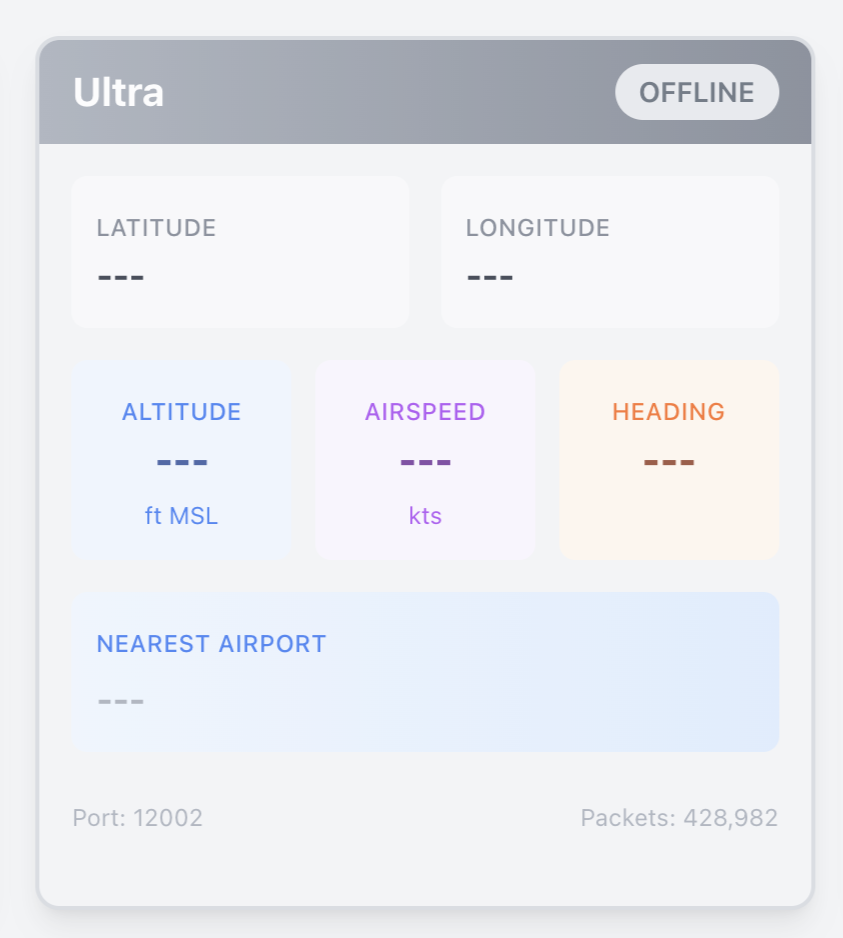
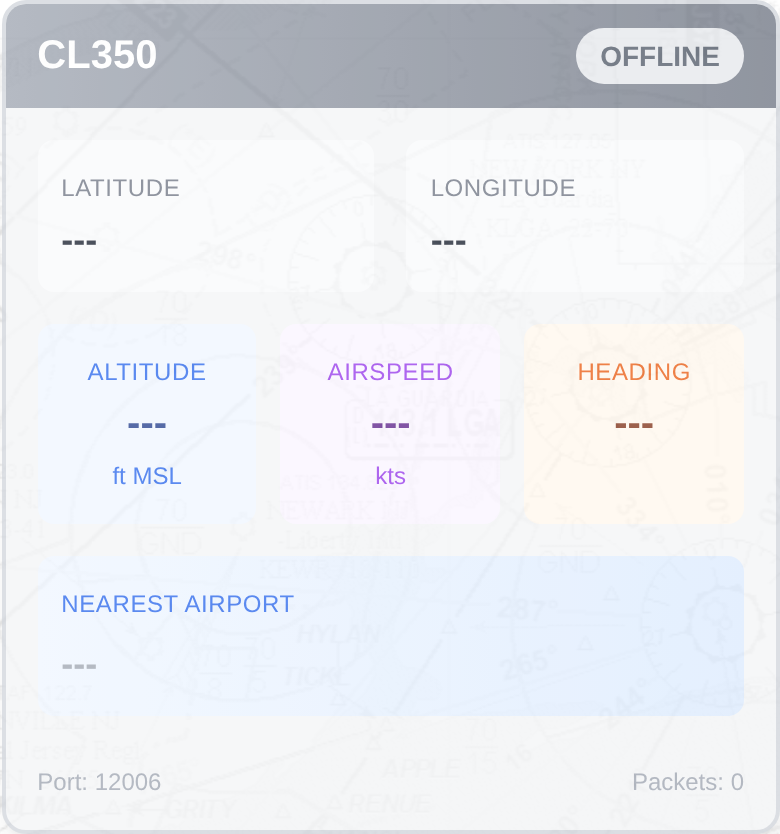
Update Fleet Dashboard screenshots for switch tracking
Retake the dashboard and health-chain screenshots on the merged code
(new header, Switch node, REC badges) with the real SIM_N_SWITCH_IP
settings, and add close-ups for the Emulator down, Switch not
responding and Simulator unreachable states plus a full-fleet health
view.

Claude-Session: https://claude.ai/code/session_01HfNUiSktvhQxPBSUhRtmcd

diff --git a/docs/dashboard-manual/health-chain.md b/docs/dashboard-manual/health-chain.md
@@ -11,6 +11,10 @@ This view is the difference between "I have no idea why this card is gray" and "
 
 *A card whose GPS Data segment has failed.*
 
+![The whole fleet in health view, showing every state the chain can be in.](../images/screenshots/health-chain-00-grid.png)
+
+*The whole fleet in health view: two cards all green, and one card for each failure point.*
+
 ## The chain
 
 ```
@@ -44,6 +48,8 @@ This is the only "happy path" state. Every other state has at least one red elem
 
 ### 2. Emulator down
 
+![A card whose Emulator node has failed.](../images/screenshots/health-chain-03-emulator-down.png)
+
 `emulator_online == false`. No heartbeat in 3 s.
 
 | Element | State |
@@ -68,6 +74,8 @@ Likely fixes:
 - Network outage between the rebroadcaster host and the dashboard host.
 
 ### 3. Switch not responding
+
+![A card whose Switch node has failed, naming the switch IP.](../images/screenshots/health-chain-04-switch-failure.png)
 
 `emulator_online == true`, the switch check is configured, `switch_reachable == false`, and `sim_reachable == false`. This branch is evaluated only when position data is not already flowing.
 
@@ -94,6 +102,8 @@ Likely fixes:
 - Check whether ICMP is filtered to the management IP. A management-plane/ICMP failure to the switch is not enough by itself to produce this state - it also requires the rebroadcaster's simulator ping to be failing (`sim_reachable == false`). If the simulator ping still succeeds through the switch, check the Simulator/GPS branches instead of assuming the switch itself is broken.
 
 ### 4. Simulator unreachable
+
+![A card whose Simulator node has failed while the switch is up.](../images/screenshots/health-chain-05-simulator-unreachable.png)
 
 `emulator_online == true` (heartbeats arriving), the Switch failure branch did not match, and `sim_reachable == false` (the ping to `SIMULATOR_IP` is failing from inside the container).
 
